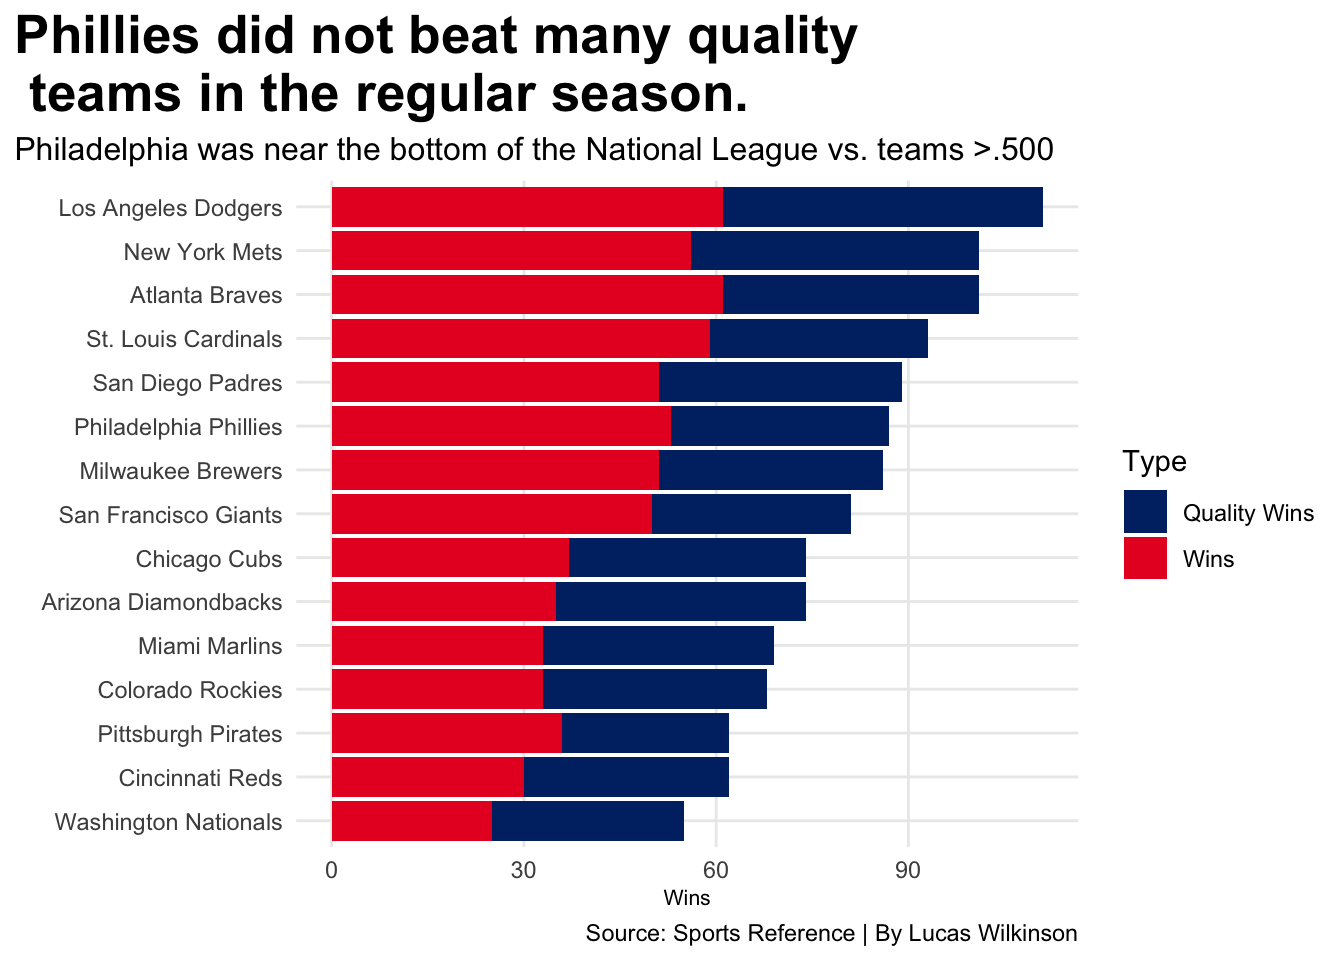
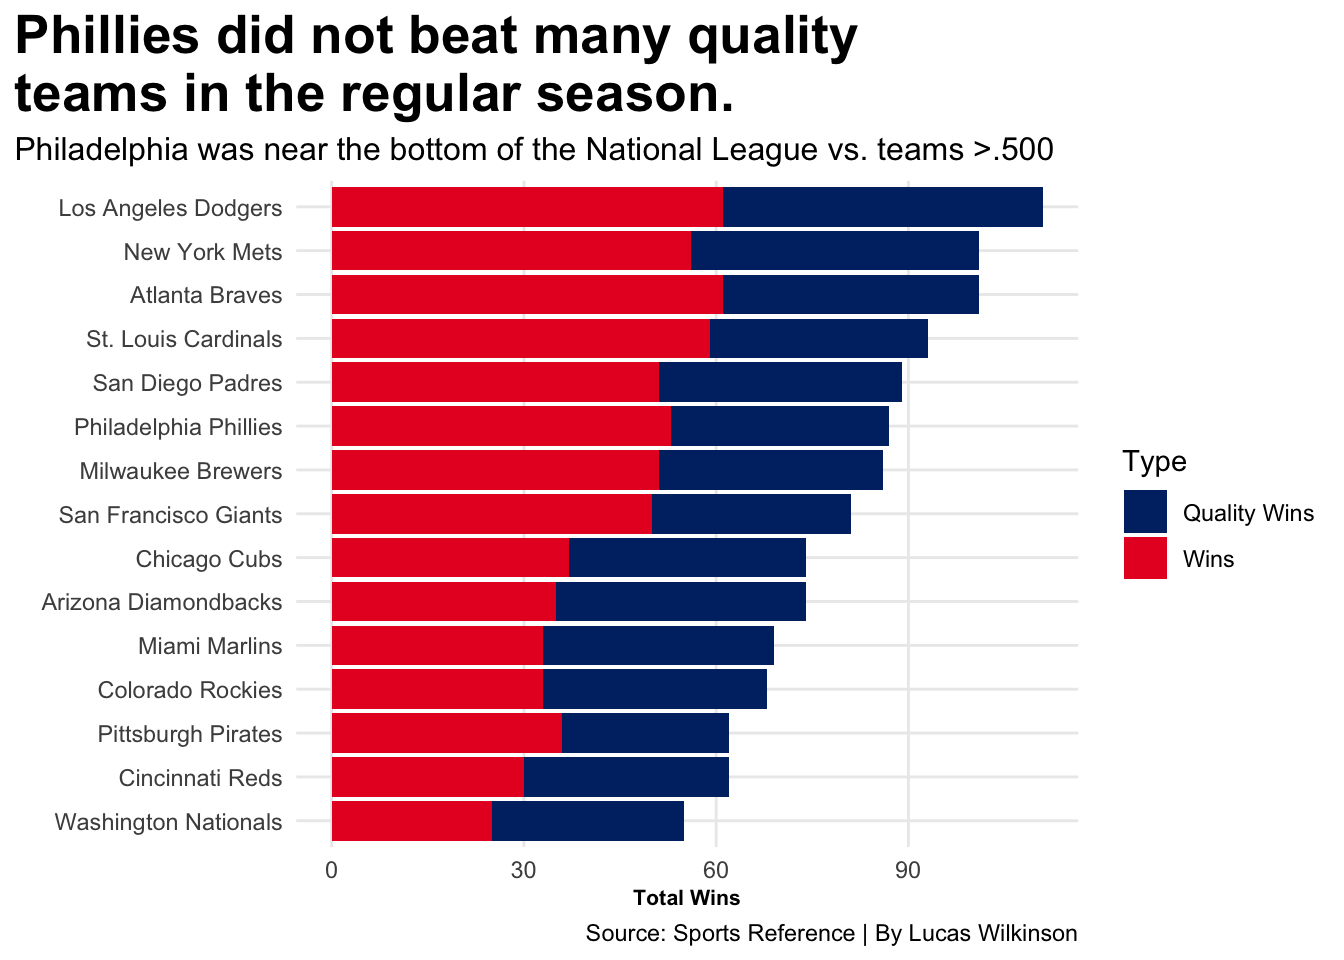
last update pt.2

Changed region(s): [[0.0, 0.0625, 0.5625, 0.125], [0.4688, 0.9062, 0.5312, 0.9688]]

diff --git a/posts/the-mlb-regular-season-is-pointless/index.html b/posts/the-mlb-regular-season-is-pointless/index.html
@@ -278,12 +278,12 @@ code span.wa { color: #60a0b0; font-weight: bold; font-style: italic; } /* Warni
 </details>
 <div class="cell-output-display">
 
-<div id="hqioazmdfe" style="overflow-x:auto;overflow-y:auto;width:auto;height:auto;">
+<div id="rlvfqwakjm" style="overflow-x:auto;overflow-y:auto;width:auto;height:auto;">
 <style>html {
   font-family: -apple-system, BlinkMacSystemFont, 'Segoe UI', Roboto, Oxygen, Ubuntu, Cantarell, 'Helvetica Neue', 'Fira Sans', 'Droid Sans', Arial, sans-serif;
 }
 
-#hqioazmdfe .gt_table {
+#rlvfqwakjm .gt_table {
   display: table;
   border-collapse: collapse;
   margin-left: auto;
@@ -308,7 +308,7 @@ code span.wa { color: #60a0b0; font-weight: bold; font-style: italic; } /* Warni
   border-left-color: #D3D3D3;
 }
 
-#hqioazmdfe .gt_heading {
+#rlvfqwakjm .gt_heading {
   background-color: #FFFFFF;
   text-align: center;
   border-bottom-color: #FFFFFF;
@@ -320,7 +320,7 @@ code span.wa { color: #60a0b0; font-weight: bold; font-style: italic; } /* Warni
   border-right-color: #D3D3D3;
 }
 
-#hqioazmdfe .gt_title {
+#rlvfqwakjm .gt_title {
   color: #333333;
   font-size: 125%;
   font-weight: initial;
@@ -332,7 +332,7 @@ code span.wa { color: #60a0b0; font-weight: bold; font-style: italic; } /* Warni
   border-bottom-width: 0;
 }
 
-#hqioazmdfe .gt_subtitle {
+#rlvfqwakjm .gt_subtitle {
   color: #333333;
   font-size: 85%;
   font-weight: initial;
@@ -344,13 +344,13 @@ code span.wa { color: #60a0b0; font-weight: bold; font-style: italic; } /* Warni
   border-top-width: 0;
 }
 
-#hqioazmdfe .gt_bottom_border {
+#rlvfqwakjm .gt_bottom_border {
   border-bottom-style: none;
   border-bottom-width: 2px;
   border-bottom-color: #D3D3D3;
 }
 
-#hqioazmdfe .gt_col_headings {
+#rlvfqwakjm .gt_col_headings {
   border-top-style: none;
   border-top-width: 2px;
   border-top-color: #D3D3D3;
@@ -365,7 +365,7 @@ code span.wa { color: #60a0b0; font-weight: bold; font-style: italic; } /* Warni
   border-right-color: #D3D3D3;
 }
 
-#hqioazmdfe .gt_col_heading {
+#rlvfqwakjm .gt_col_heading {
   color: #333333;
   background-color: #FFFFFF;
   font-size: 100%;
@@ -385,7 +385,7 @@ code span.wa { color: #60a0b0; font-weight: bold; font-style: italic; } /* Warni
   overflow-x: hidden;
 }
 
-#hqioazmdfe .gt_column_spanner_outer {
+#rlvfqwakjm .gt_column_spanner_outer {
   color: #333333;
   background-color: #FFFFFF;
   font-size: 100%;
@@ -397,15 +397,15 @@ code span.wa { color: #60a0b0; font-weight: bold; font-style: italic; } /* Warni
   padding-right: 4px;
 }
 
-#hqioazmdfe .gt_column_spanner_outer:first-child {
+#rlvfqwakjm .gt_column_spanner_outer:first-child {
   padding-left: 0;
 }
 
-#hqioazmdfe .gt_column_spanner_outer:last-child {
+#rlvfqwakjm .gt_column_spanner_outer:last-child {
   padding-right: 0;
 }
 
-#hqioazmdfe .gt_column_spanner {
+#rlvfqwakjm .gt_column_spanner {
   border-bottom-style: none;
   border-bottom-width: 2px;
   border-bottom-color: #D3D3D3;
@@ -417,7 +417,7 @@ code span.wa { color: #60a0b0; font-weight: bold; font-style: italic; } /* Warni
   width: 100%;
 }
 
-#hqioazmdfe .gt_group_heading {
+#rlvfqwakjm .gt_group_heading {
   padding-top: 8px;
   padding-bottom: 8px;
   padding-left: 5px;
@@ -442,7 +442,7 @@ code span.wa { color: #60a0b0; font-weight: bold; font-style: italic; } /* Warni
   vertical-align: middle;
 }
 
-#hqioazmdfe .gt_empty_group_heading {
+#rlvfqwakjm .gt_empty_group_heading {
   padding: 0.5px;
   color: #333333;
   background-color: #FFFFFF;
@@ -457,15 +457,15 @@ code span.wa { color: #60a0b0; font-weight: bold; font-style: italic; } /* Warni
   vertical-align: middle;
 }
 
-#hqioazmdfe .gt_from_md > :first-child {
+#rlvfqwakjm .gt_from_md > :first-child {
   margin-top: 0;
 }
 
-#hqioazmdfe .gt_from_md > :last-child {
+#rlvfqwakjm .gt_from_md > :last-child {
   margin-bottom: 0;
 }
 
-#hqioazmdfe .gt_row {
+#rlvfqwakjm .gt_row {
   padding-top: 8px;
   padding-bottom: 8px;
   padding-left: 5px;
@@ -484,7 +484,7 @@ code span.wa { color: #60a0b0; font-weight: bold; font-style: italic; } /* Warni
   overflow-x: hidden;
 }
 
-#hqioazmdfe .gt_stub {
+#rlvfqwakjm .gt_stub {
   color: #333333;
   background-color: #FFFFFF;
   font-size: 100%;
@@ -497,7 +497,7 @@ code span.wa { color: #60a0b0; font-weight: bold; font-style: italic; } /* Warni
   padding-right: 5px;
 }
 
-#hqioazmdfe .gt_stub_row_group {
+#rlvfqwakjm .gt_stub_row_group {
   color: #333333;
   background-color: #FFFFFF;
   font-size: 100%;
@@ -511,11 +511,11 @@ code span.wa { color: #60a0b0; font-weight: bold; font-style: italic; } /* Warni
   vertical-align: top;
 }
 
-#hqioazmdfe .gt_row_group_first td {
+#rlvfqwakjm .gt_row_group_first td {
   border-top-width: 2px;
 }
 
-#hqioazmdfe .gt_summary_row {
+#rlvfqwakjm .gt_summary_row {
   color: #333333;
   background-color: #FFFFFF;
   text-transform: inherit;
@@ -525,16 +525,16 @@ code span.wa { color: #60a0b0; font-weight: bold; font-style: italic; } /* Warni
   padding-right: 5px;
 }
 
-#hqioazmdfe .gt_first_summary_row {
+#rlvfqwakjm .gt_first_summary_row {
   border-top-style: none;
   border-top-color: #D3D3D3;
 }
 
-#hqioazmdfe .gt_first_summary_row.thick {
+#rlvfqwakjm .gt_first_summary_row.thick {
   border-top-width: 2px;
 }
 
-#hqioazmdfe .gt_last_summary_row {
+#rlvfqwakjm .gt_last_summary_row {
   padding-top: 8px;
   padding-bottom: 8px;
   padding-left: 5px;
@@ -544,7 +544,7 @@ code span.wa { color: #60a0b0; font-weight: bold; font-style: italic; } /* Warni
   border-bottom-color: #D3D3D3;
 }
 
-#hqioazmdfe .gt_grand_summary_row {
+#rlvfqwakjm .gt_grand_summary_row {
   color: #333333;
   background-color: #FFFFFF;
   text-transform: inherit;
@@ -554,7 +554,7 @@ code span.wa { color: #60a0b0; font-weight: bold; font-style: italic; } /* Warni
   padding-right: 5px;
 }
 
-#hqioazmdfe .gt_first_grand_summary_row {
+#rlvfqwakjm .gt_first_grand_summary_row {
   padding-top: 8px;
   padding-bottom: 8px;
   padding-left: 5px;
@@ -564,11 +564,11 @@ code span.wa { color: #60a0b0; font-weight: bold; font-style: italic; } /* Warni
   border-top-color: #D3D3D3;
 }
 
-#hqioazmdfe .gt_striped {
+#rlvfqwakjm .gt_striped {
   background-color: rgba(128, 128, 128, 0.05);
 }
 
-#hqioazmdfe .gt_table_body {
+#rlvfqwakjm .gt_table_body {
   border-top-style: none;
   border-top-width: 2px;
   border-top-color: #D3D3D3;
@@ -577,7 +577,7 @@ code span.wa { color: #60a0b0; font-weight: bold; font-style: italic; } /* Warni
   border-bottom-color: #D3D3D3;
 }
 
-#hqioazmdfe .gt_footnotes {
+#rlvfqwakjm .gt_footnotes {
   color: #333333;
   background-color: #FFFFFF;
   border-bottom-style: none;
@@ -591,7 +591,7 @@ code span.wa { color: #60a0b0; font-weight: bold; font-style: italic; } /* Warni
   border-right-color: #D3D3D3;
 }
 
-#hqioazmdfe .gt_footnote {
+#rlvfqwakjm .gt_footnote {
   margin: 0px;
   font-size: 90%;
   padding-left: 4px;
@@ -600,7 +600,7 @@ code span.wa { color: #60a0b0; font-weight: bold; font-style: italic; } /* Warni
   padding-right: 5px;
 }
 
-#hqioazmdfe .gt_sourcenotes {
+#rlvfqwakjm .gt_sourcenotes {
   color: #333333;
   background-color: #FFFFFF;
   border-bottom-style: none;
@@ -614,7 +614,7 @@ code span.wa { color: #60a0b0; font-weight: bold; font-style: italic; } /* Warni
   border-right-color: #D3D3D3;
 }
 
-#hqioazmdfe .gt_sourcenote {
+#rlvfqwakjm .gt_sourcenote {
   font-size: 90%;
   padding-top: 4px;
   padding-bottom: 4px;
@@ -622,64 +622,64 @@ code span.wa { color: #60a0b0; font-weight: bold; font-style: italic; } /* Warni
   padding-right: 5px;
 }
 
-#hqioazmdfe .gt_left {
+#rlvfqwakjm .gt_left {
   text-align: left;
 }
 
-#hqioazmdfe .gt_center {
+#rlvfqwakjm .gt_center {
   text-align: center;
 }
 
-#hqioazmdfe .gt_right {
+#rlvfqwakjm .gt_right {
   text-align: right;
   font-variant-numeric: tabular-nums;
 }
 
-#hqioazmdfe .gt_font_normal {
+#rlvfqwakjm .gt_font_normal {
   font-weight: normal;
 }
 
-#hqioazmdfe .gt_font_bold {
+#rlvfqwakjm .gt_font_bold {
   font-weight: bold;
 }
 
-#hqioazmdfe .gt_font_italic {
+#rlvfqwakjm .gt_font_italic {
   font-style: italic;
 }
 
-#hqioazmdfe .gt_super {
+#rlvfqwakjm .gt_super {
   font-size: 65%;
 }
 
-#hqioazmdfe .gt_footnote_marks {
+#rlvfqwakjm .gt_footnote_marks {
   font-style: italic;
   font-weight: normal;
   font-size: 75%;
   vertical-align: 0.4em;
 }
 
-#hqioazmdfe .gt_asterisk {
+#rlvfqwakjm .gt_asterisk {
   font-size: 100%;
   vertical-align: 0;
 }
 
-#hqioazmdfe .gt_indent_1 {
+#rlvfqwakjm .gt_indent_1 {
   text-indent: 5px;
 }
 
-#hqioazmdfe .gt_indent_2 {
+#rlvfqwakjm .gt_indent_2 {
   text-indent: 10px;
 }
 
-#hqioazmdfe .gt_indent_3 {
+#rlvfqwakjm .gt_indent_3 {
   text-indent: 15px;
 }
 
-#hqioazmdfe .gt_indent_4 {
+#rlvfqwakjm .gt_indent_4 {
   text-indent: 20px;
 }
 
-#hqioazmdfe .gt_indent_5 {
+#rlvfqwakjm .gt_indent_5 {
   text-indent: 25px;
 }
 </style>
@@ -784,15 +784,15 @@ code span.wa { color: #60a0b0; font-weight: bold; font-style: italic; } /* Warni
 <span id="cb2-6"><a href="#cb2-6" aria-hidden="true" tabindex="-1"></a>  <span class="fu">coord_flip</span>() <span class="sc">+</span> </span>
 <span id="cb2-7"><a href="#cb2-7" aria-hidden="true" tabindex="-1"></a>  <span class="fu">labs</span>(</span>
 <span id="cb2-8"><a href="#cb2-8" aria-hidden="true" tabindex="-1"></a>    <span class="at">x=</span><span class="st">""</span>, </span>
-<span id="cb2-9"><a href="#cb2-9" aria-hidden="true" tabindex="-1"></a>    <span class="at">y=</span><span class="st">"Wins"</span>, </span>
-<span id="cb2-10"><a href="#cb2-10" aria-hidden="true" tabindex="-1"></a>    <span class="at">title=</span><span class="st">"Phillies did not beat many quality</span><span class="sc">\n</span><span class="st"> teams in the regular season."</span>, </span>
+<span id="cb2-9"><a href="#cb2-9" aria-hidden="true" tabindex="-1"></a>    <span class="at">y=</span><span class="st">"Total Wins"</span>, </span>
+<span id="cb2-10"><a href="#cb2-10" aria-hidden="true" tabindex="-1"></a>    <span class="at">title=</span><span class="st">"Phillies did not beat many quality </span><span class="sc">\n</span><span class="st">teams in the regular season."</span>, </span>
 <span id="cb2-11"><a href="#cb2-11" aria-hidden="true" tabindex="-1"></a>    <span class="at">subtitle=</span><span class="st">"Philadelphia was near the bottom of the National League vs. teams &gt;.500"</span>,</span>
 <span id="cb2-12"><a href="#cb2-12" aria-hidden="true" tabindex="-1"></a>    <span class="at">caption =</span> <span class="st">"Source: Sports Reference | By Lucas Wilkinson"</span>) <span class="sc">+</span> </span>
 <span id="cb2-13"><a href="#cb2-13" aria-hidden="true" tabindex="-1"></a>  <span class="fu">theme_minimal</span>() <span class="sc">+</span> </span>
 <span id="cb2-14"><a href="#cb2-14" aria-hidden="true" tabindex="-1"></a>  <span class="fu">theme</span>(</span>
 <span id="cb2-15"><a href="#cb2-15" aria-hidden="true" tabindex="-1"></a>    <span class="at">plot.title =</span> <span class="fu">element_text</span>(<span class="at">size =</span> <span class="dv">20</span>, <span class="at">face =</span> <span class="st">"bold"</span>),</span>
 <span id="cb2-16"><a href="#cb2-16" aria-hidden="true" tabindex="-1"></a>    <span class="at">plot.title.position =</span> <span class="st">"plot"</span> , </span>
-<span id="cb2-17"><a href="#cb2-17" aria-hidden="true" tabindex="-1"></a>    <span class="at">axis.title =</span> <span class="fu">element_text</span>(<span class="at">size =</span> <span class="dv">8</span>), </span>
+<span id="cb2-17"><a href="#cb2-17" aria-hidden="true" tabindex="-1"></a>    <span class="at">axis.title =</span> <span class="fu">element_text</span>(<span class="at">size =</span> <span class="dv">8</span>, <span class="at">face =</span><span class="st">"bold"</span>), </span>
 <span id="cb2-18"><a href="#cb2-18" aria-hidden="true" tabindex="-1"></a>    <span class="at">plot.subtitle =</span> <span class="fu">element_text</span>(<span class="at">size=</span><span class="dv">12</span>), </span>
 <span id="cb2-19"><a href="#cb2-19" aria-hidden="true" tabindex="-1"></a>    <span class="at">panel.grid.minor =</span> <span class="fu">element_blank</span>() </span>
 <span id="cb2-20"><a href="#cb2-20" aria-hidden="true" tabindex="-1"></a>  )</span></code><button title="Copy to Clipboard" class="code-copy-button"><i class="bi"></i></button></pre></div>

diff --git a/index.html b/index.html
@@ -157,7 +157,7 @@ ul.task-list{list-style: none;}
 
 <div class="quarto-listing quarto-listing-container-default" id="listing-listing">
 <div class="list quarto-listing-default">
-<div class="quarto-post image-right" data-index="0" data-categories="phillies,code,analysis" data-listing-date-sort="1667710800000" data-listing-file-modified-sort="1667785590486" data-listing-reading-time-sort="5.32">
+<div class="quarto-post image-right" data-index="0" data-categories="phillies,code,analysis" data-listing-date-sort="1667710800000" data-listing-file-modified-sort="1667785723804" data-listing-reading-time-sort="5.335">
 <div class="thumbnail">
 <p><a href="./posts/the-mlb-regular-season-is-pointless/index.html"> <img src="./posts/the-mlb-regular-season-is-pointless/image.png" class="thumnail-image"> </a></p>
 </div>
